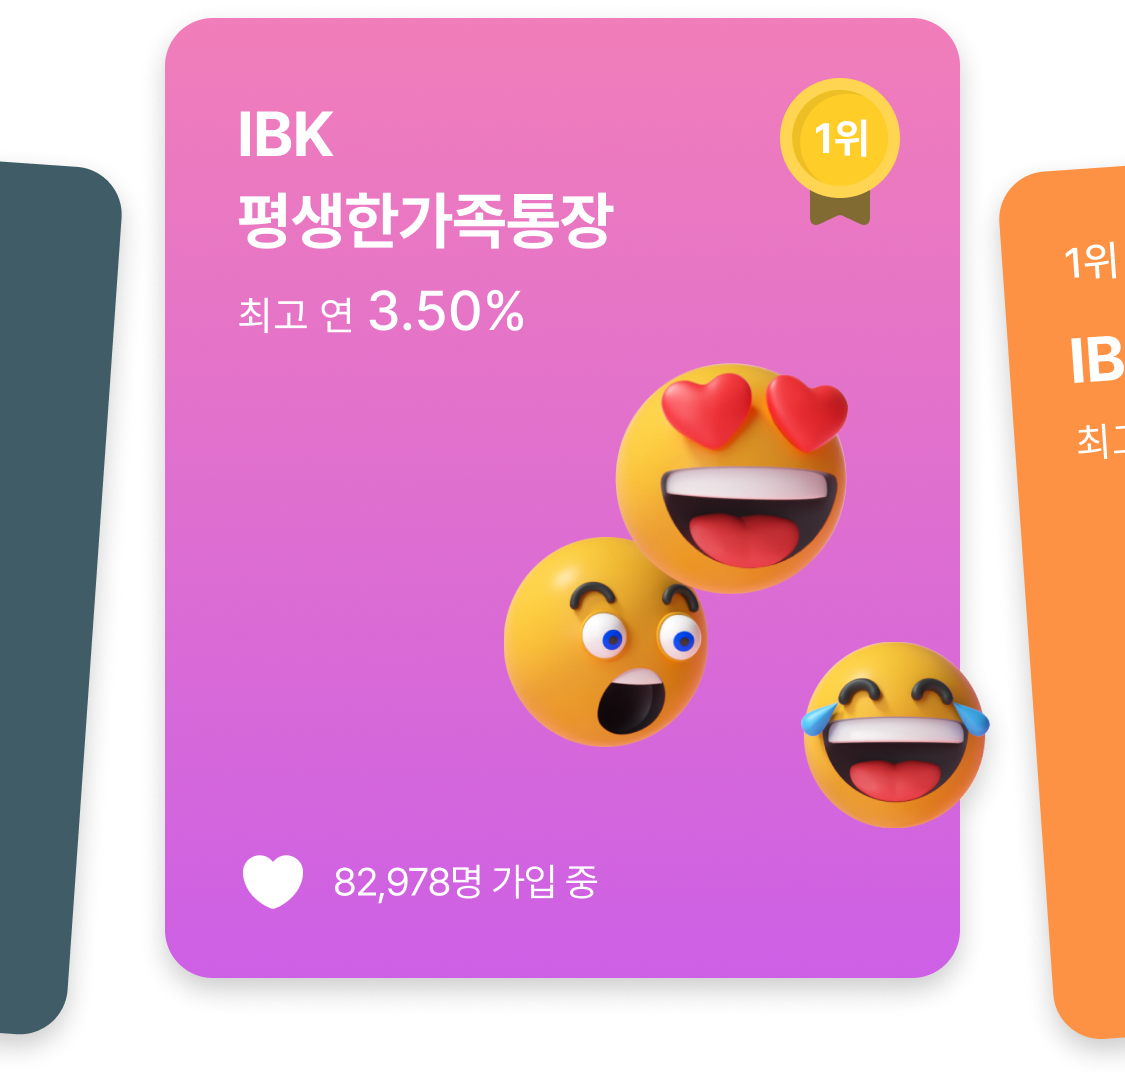
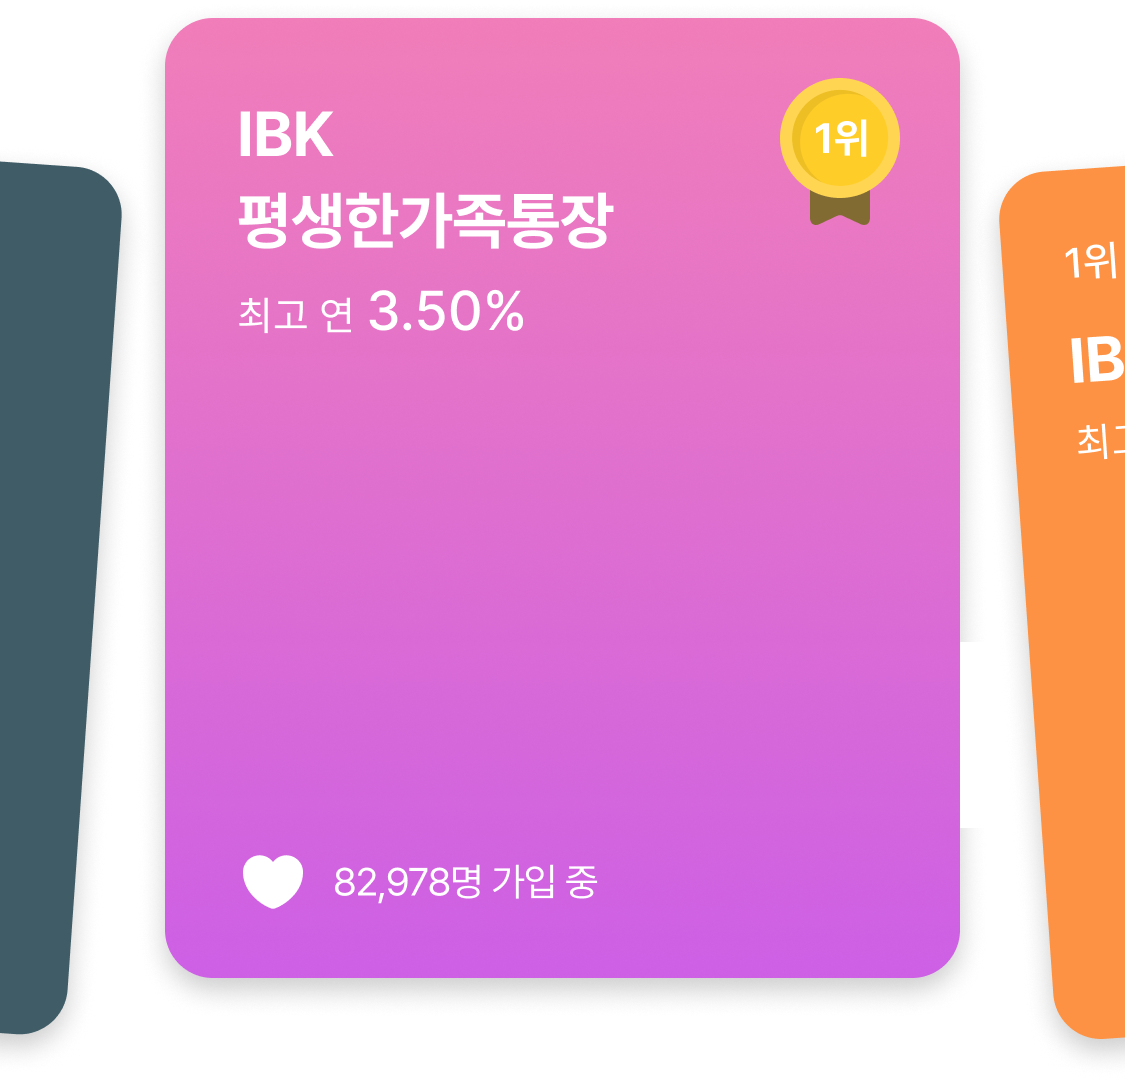
수정

Changed region(s): [[0.4356, 0.3358, 0.7778, 0.7021], [0.7156, 0.58, 0.9022, 0.7632]]

diff --git a/IBK/c-product.html b/IBK/c-product.html
@@ -43,7 +43,15 @@
         .bottom_nav .ai.on::after{background:url("./images/Ctype/ico_ai_on.svg") no-repeat center center / 100%;}
         .bottom_nav .asset.on::after{background:url("./images/Ctype/ico_asset_on.svg") no-repeat 0 0 / 100%;}
         .bottom_nav .product.on::after{background:url("./images/Ctype/ico_product_on.svg") no-repeat  0 0 / 100%;}
-
+        /* ani */
+        .ani_area{position:relative;}
+        .emoji1{position:absolute;top:115px;right:92px;width:78px;height:77px;z-index:1;transform:translateY(50px) scale(0);opacity: 0;animation:pop-up 0.6s cubic-bezier(0.27,0.53,0.28,1.58) forwards;animation-delay:1s;}
+        .emoji2{position:absolute;top:173px;right:139px;width:68px;height:70px;transform:translateY(50px) scale(0);opacity: 0;animation:pop-up 0.6s cubic-bezier(0.27,0.53,0.28,1.58) forwards;}
+        .emoji3{position:absolute;top:208px;right:45px;width:63px;height:62px;transform:translateY(50px) scale(0);opacity: 0;animation:pop-up 0.6s cubic-bezier(0.27,0.53,0.28,1.58) forwards;animation-delay:0.5s;}
+        @keyframes pop-up {
+            0% {transform: translateY(50px) scale(0); opacity: 0;}
+            100% {transform: translateY(0px) scale(1); opacity: 1;}
+        } 
     </style>
 </head>
 <body>
@@ -59,7 +67,12 @@
                 <img src="./images/Ctype/product/product_cont01.png" alt="">
             </div>
             <img src="./images/Ctype/product/product_cont02-1.png" alt="" style="padding:16px 0 32px 20px">
-            <img src="./images/Ctype/product/product_cont02-2.png" alt="">
+            <div class="ani_area">
+                <img src="./images/Ctype/product/product_cont02-2.png" alt="">
+                <img src="./images/Ctype/product/emoji1-3.png" alt="" class="emoji1">
+                <img src="./images/Ctype/product/emoji2-3.png" alt="" class="emoji2">
+                <img src="./images/Ctype/product/emoji3-3.png" alt="" class="emoji3">
+            </div>
             <img src="./images/Ctype/product/product_cont03.png" alt="" style="padding:18px 32px 16px 32px">
         </div>
         <div class="bottom_nav">
